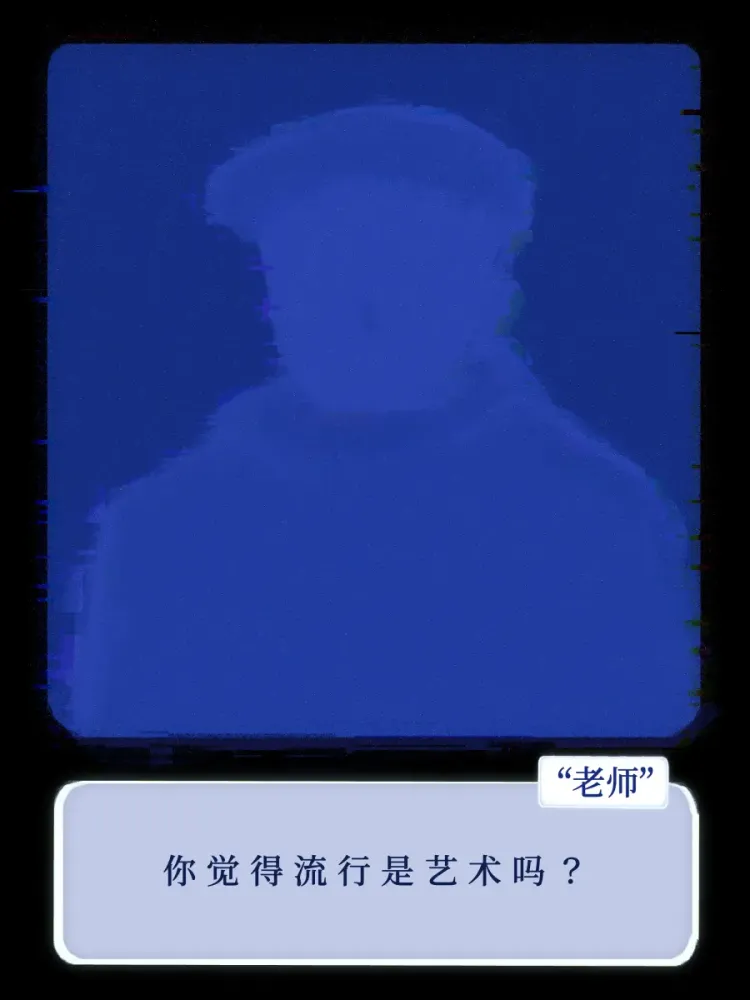
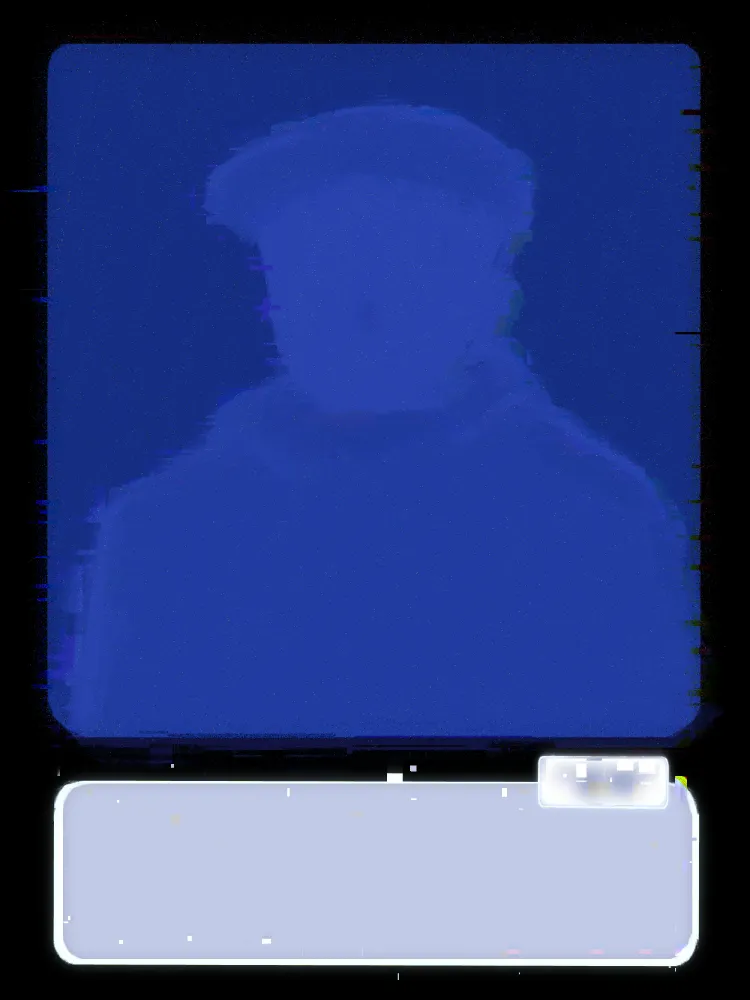
echo

diff --git a/src/components/games/EchoGame.jsx b/src/components/games/EchoGame.jsx
@@ -2,13 +2,13 @@ import { useState, useRef } from 'react';
 import { motion, AnimatePresence } from 'framer-motion';
 
 const OPTIONS_MAP = {
-  40: ['喜欢。'],
-  41: ['我觉得它是。'],
-  46: ['……','好。'],
-  47: ['会。'],
+  42: ['喜欢。'],
+  43: ['我觉得它是。'],
+  48: ['……','好。'],
+  49: ['会。'],
 };
 
-const TOTAL_IMAGES = 51;
+const TOTAL_IMAGES = 54;
 
 const EchoGame = ({ onComplete }) => {
   const [currentIndex, setCurrentIndex] = useState(1);
